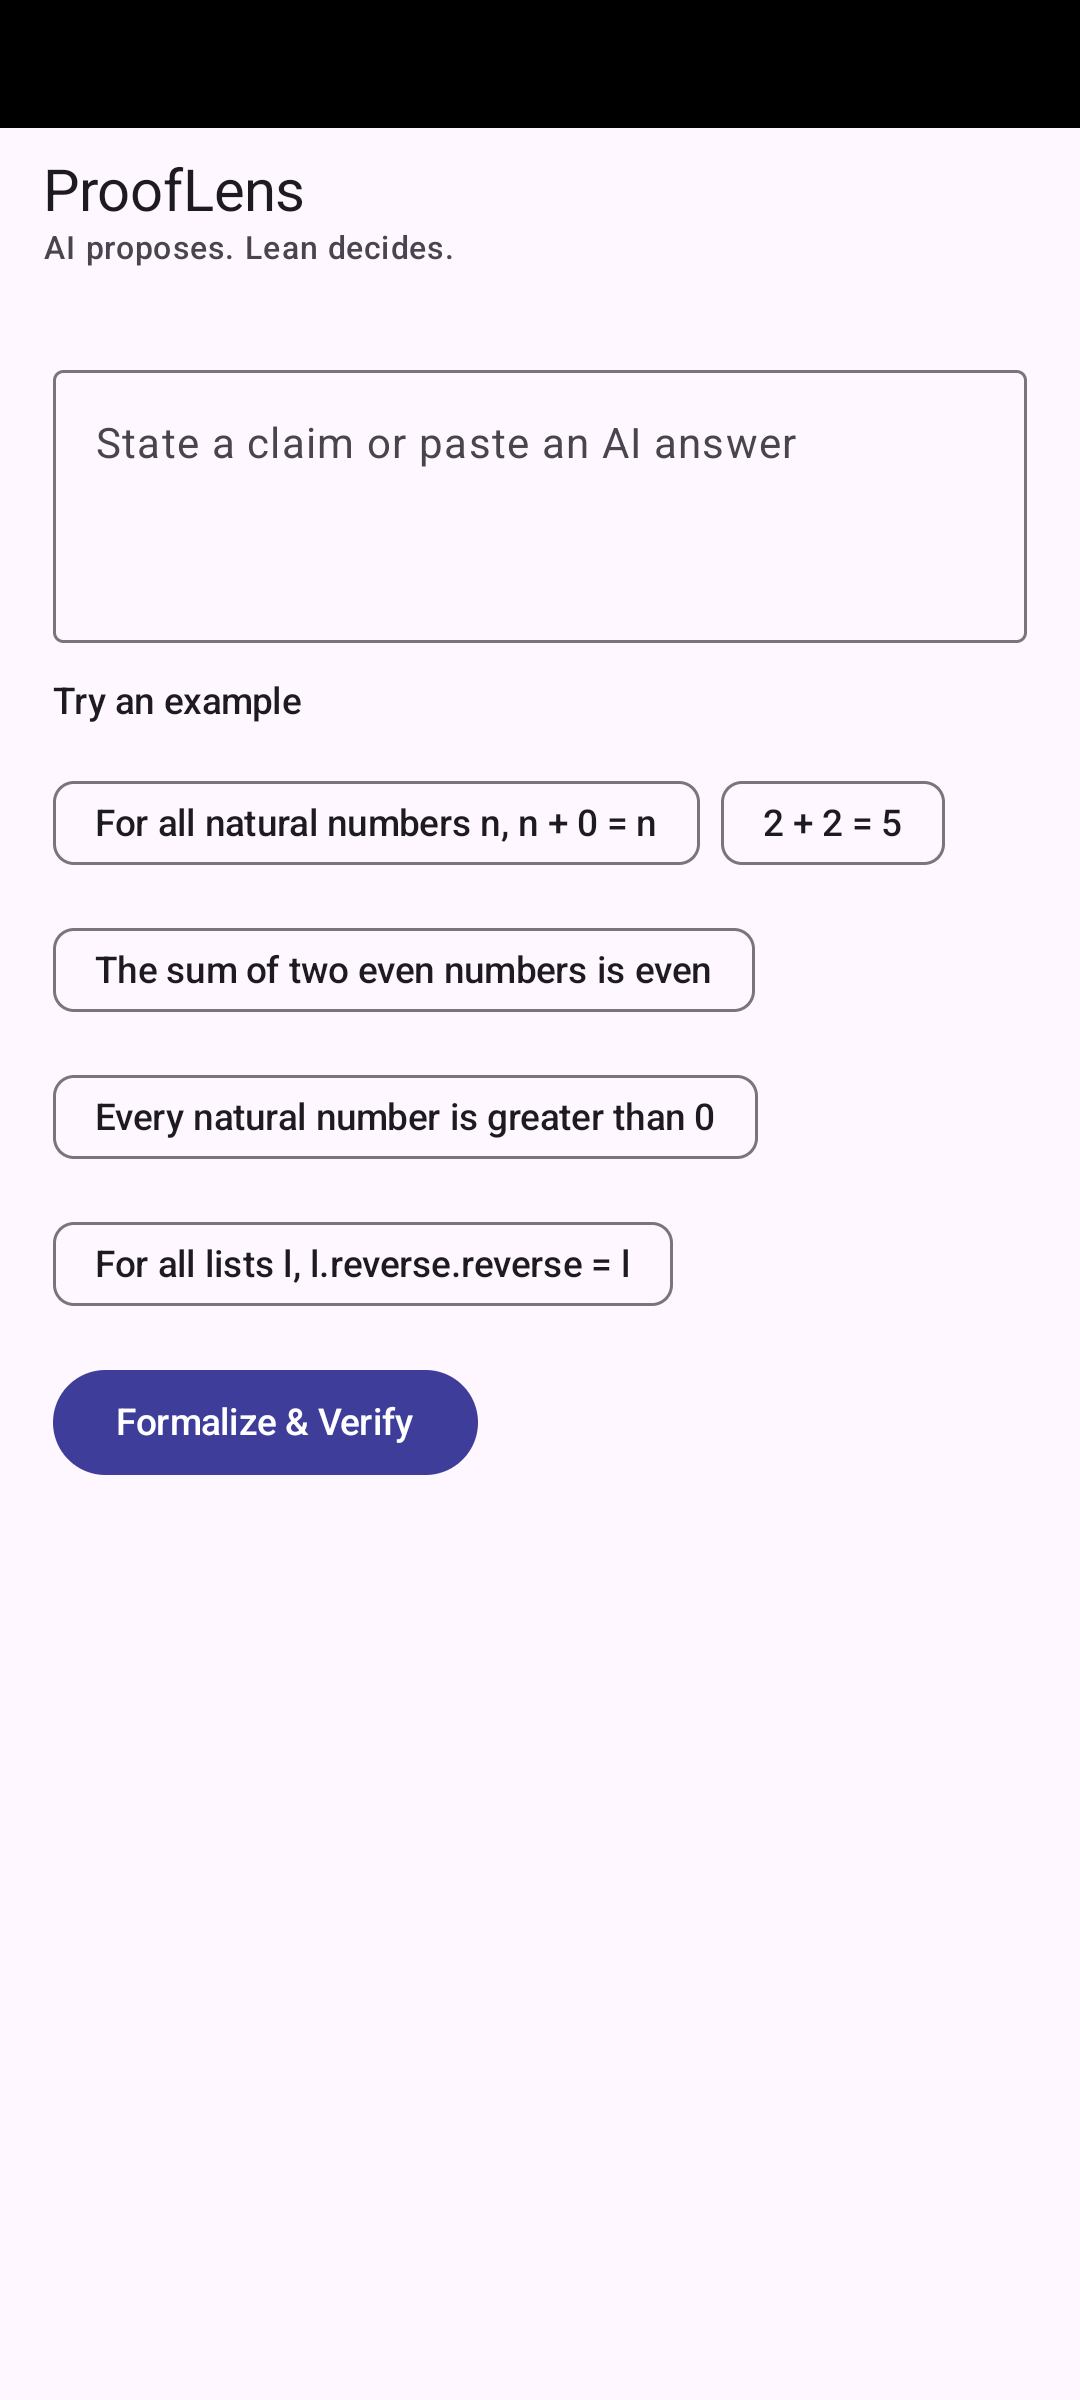
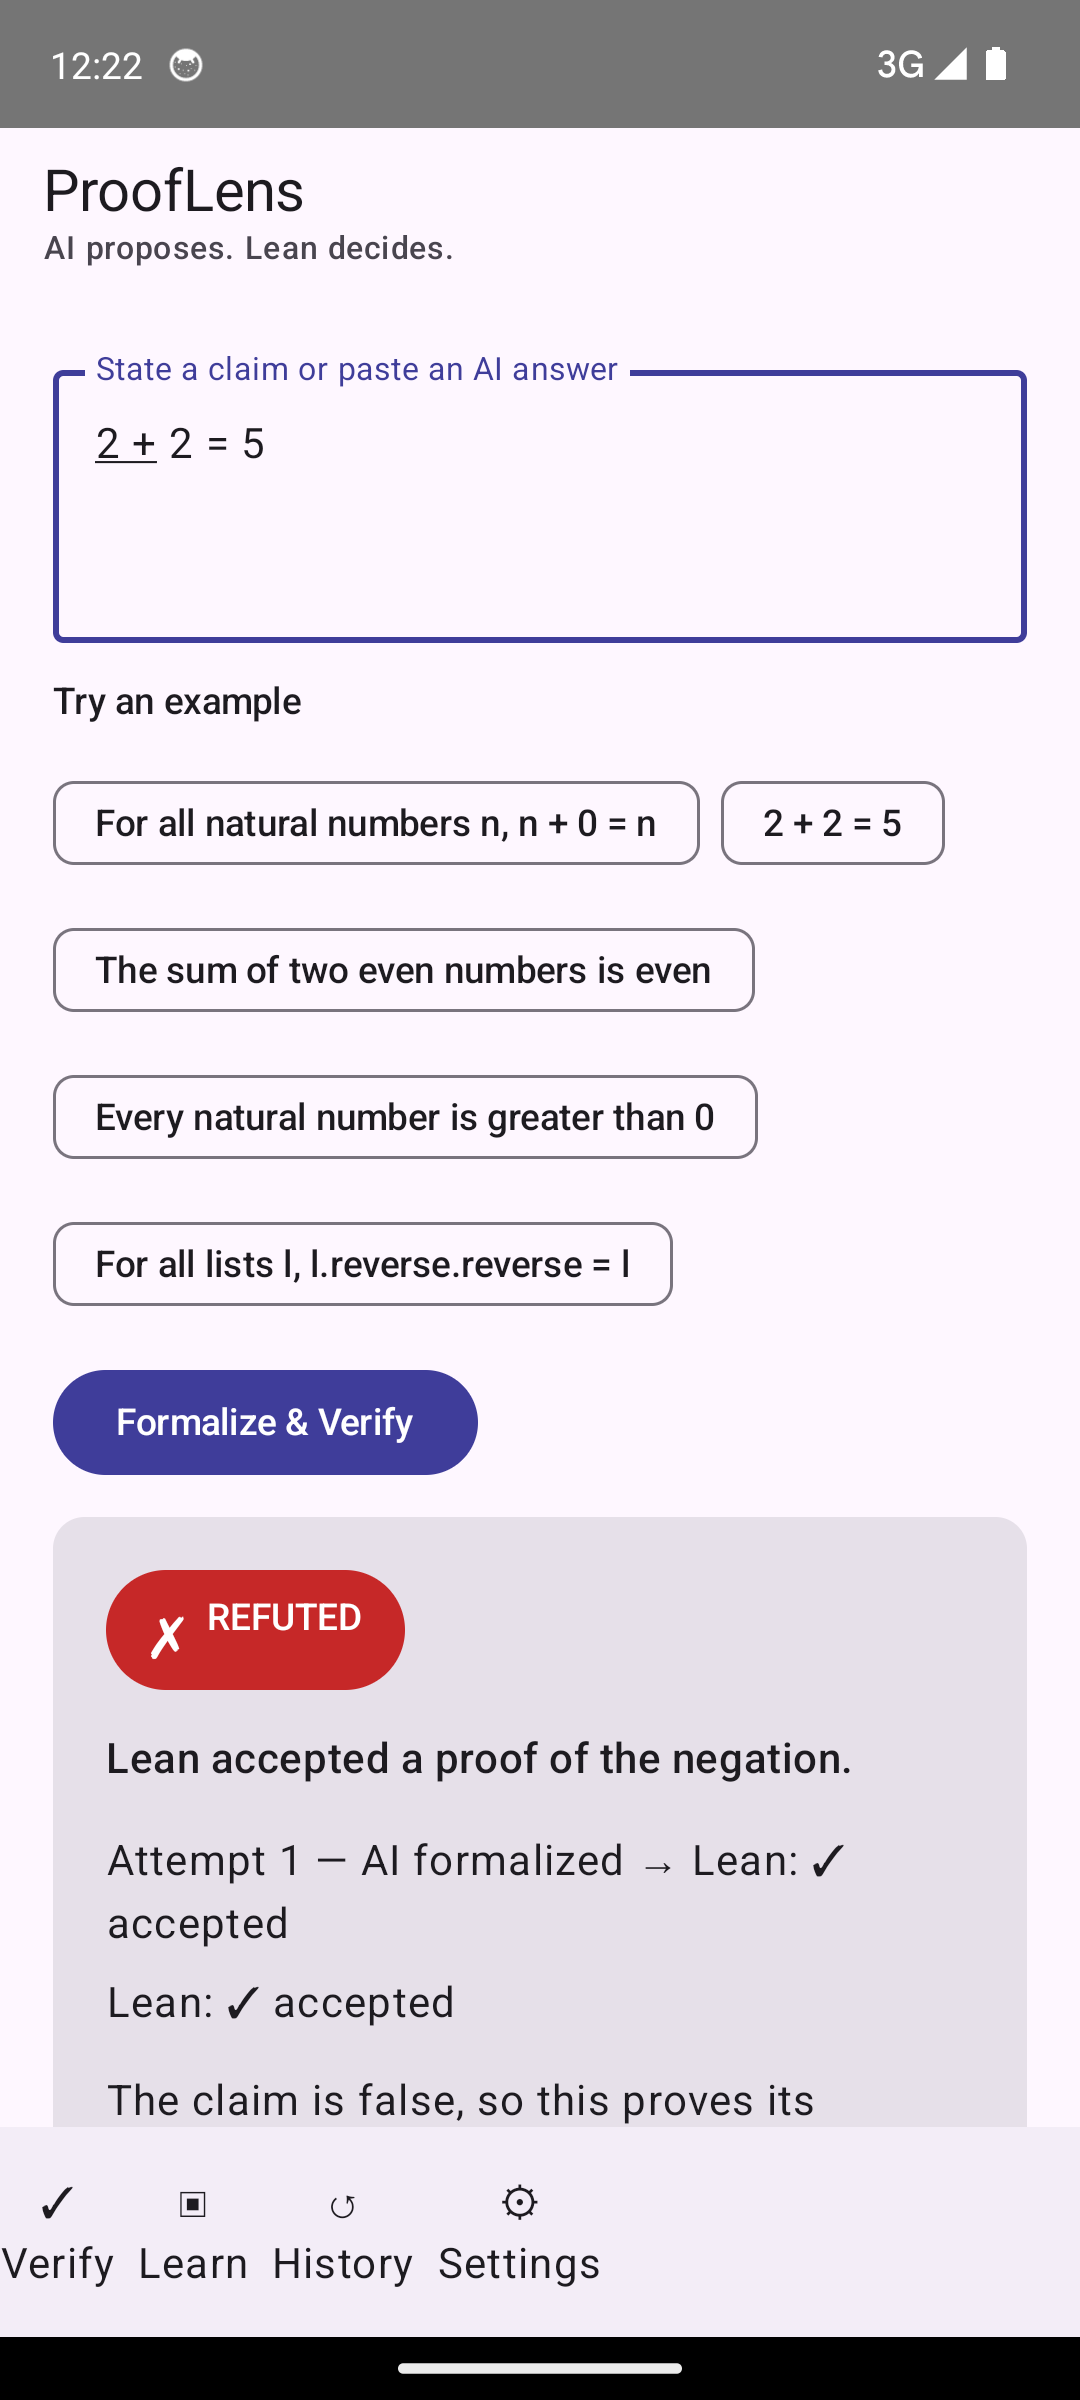
Fix phone layout and add real screenshots

diff --git a/composeApp/src/commonMain/kotlin/dev/prooflens/app/App.kt b/composeApp/src/commonMain/kotlin/dev/prooflens/app/App.kt
@@ -74,7 +74,7 @@ fun App(viewModel: AppViewModel = remember { AppViewModel() }) {
                         }
                     } else {
                         Column(Modifier.fillMaxSize()) {
-                            content(state, viewModel, Modifier.fillMaxWidth())
+                            content(state, viewModel, Modifier.fillMaxWidth().weight(1f))
                             NavigationBar {
                                 tabs(state, viewModel, rail = false)
                             }
@@ -89,7 +89,7 @@ fun App(viewModel: AppViewModel = remember { AppViewModel() }) {
 @Composable
 private fun content(state: dev.prooflens.app.state.AppState, viewModel: AppViewModel, modifier: Modifier) {
     Column(
-        modifier.fillMaxSize().widthIn(max = 1080.dp).verticalScroll(rememberScrollState()).padding(20.dp),
+        modifier.widthIn(max = 1080.dp).verticalScroll(rememberScrollState()).padding(20.dp),
         verticalArrangement = Arrangement.spacedBy(16.dp),
     ) {
         when (state.tab) {
